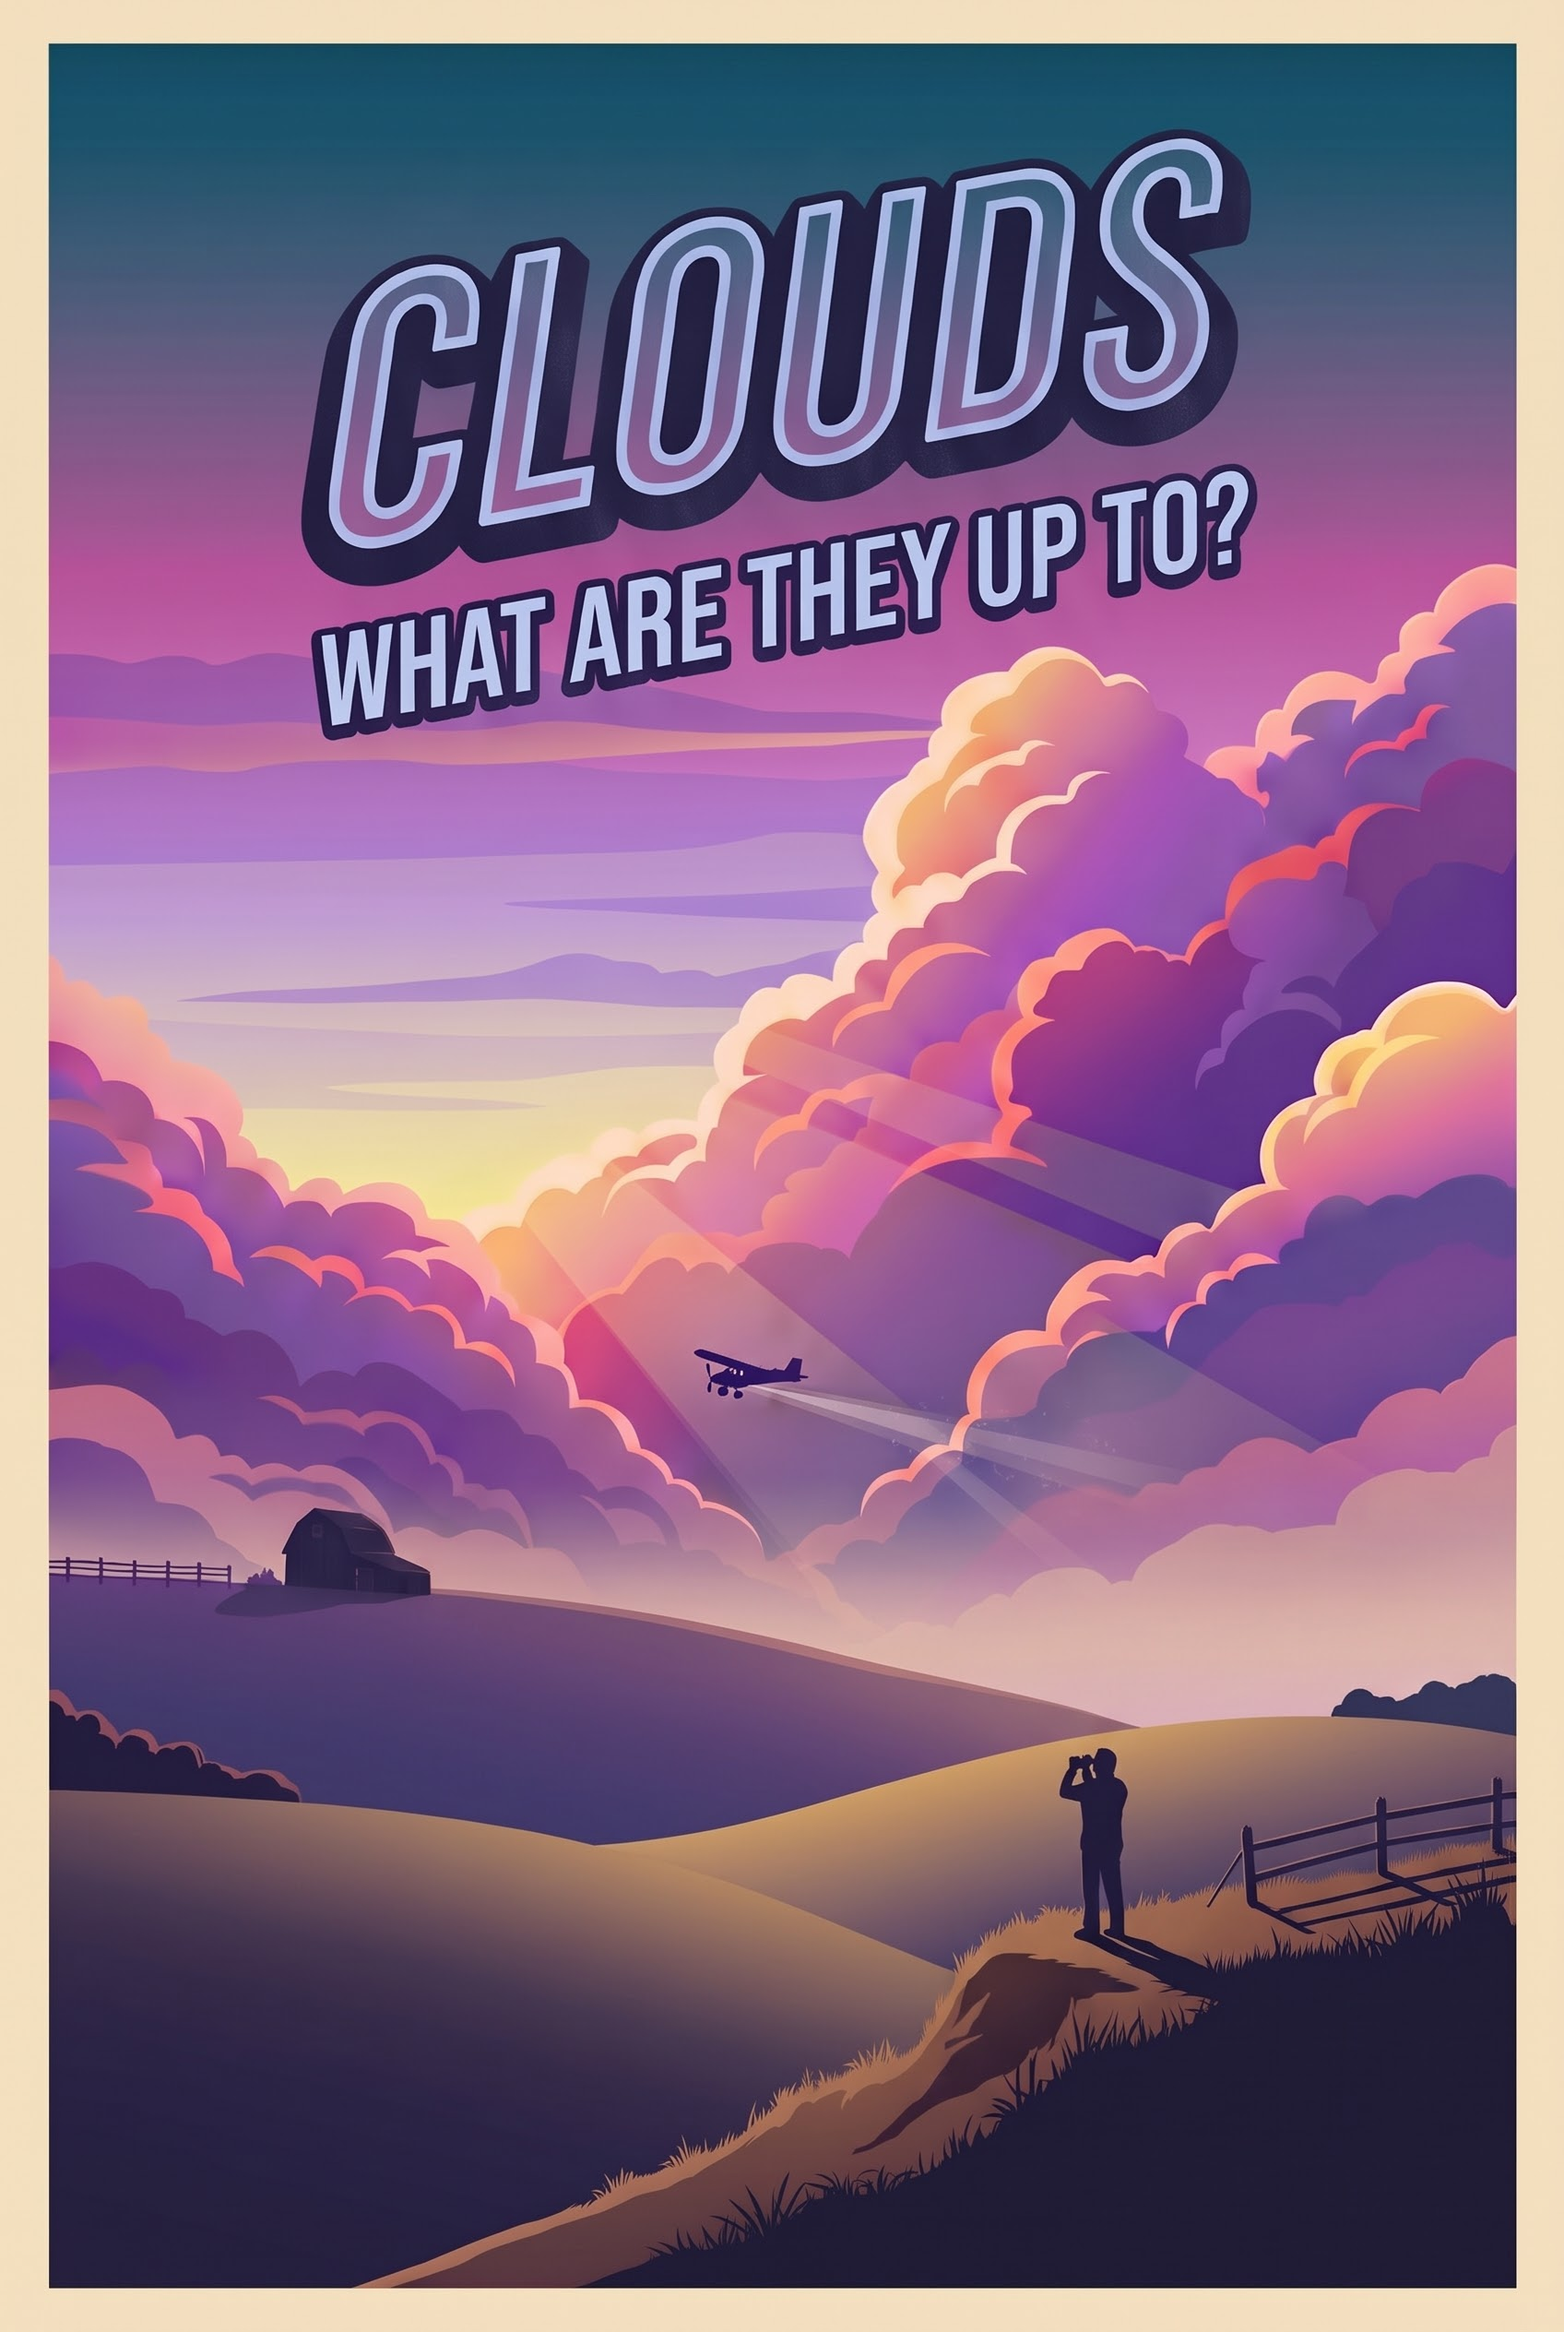
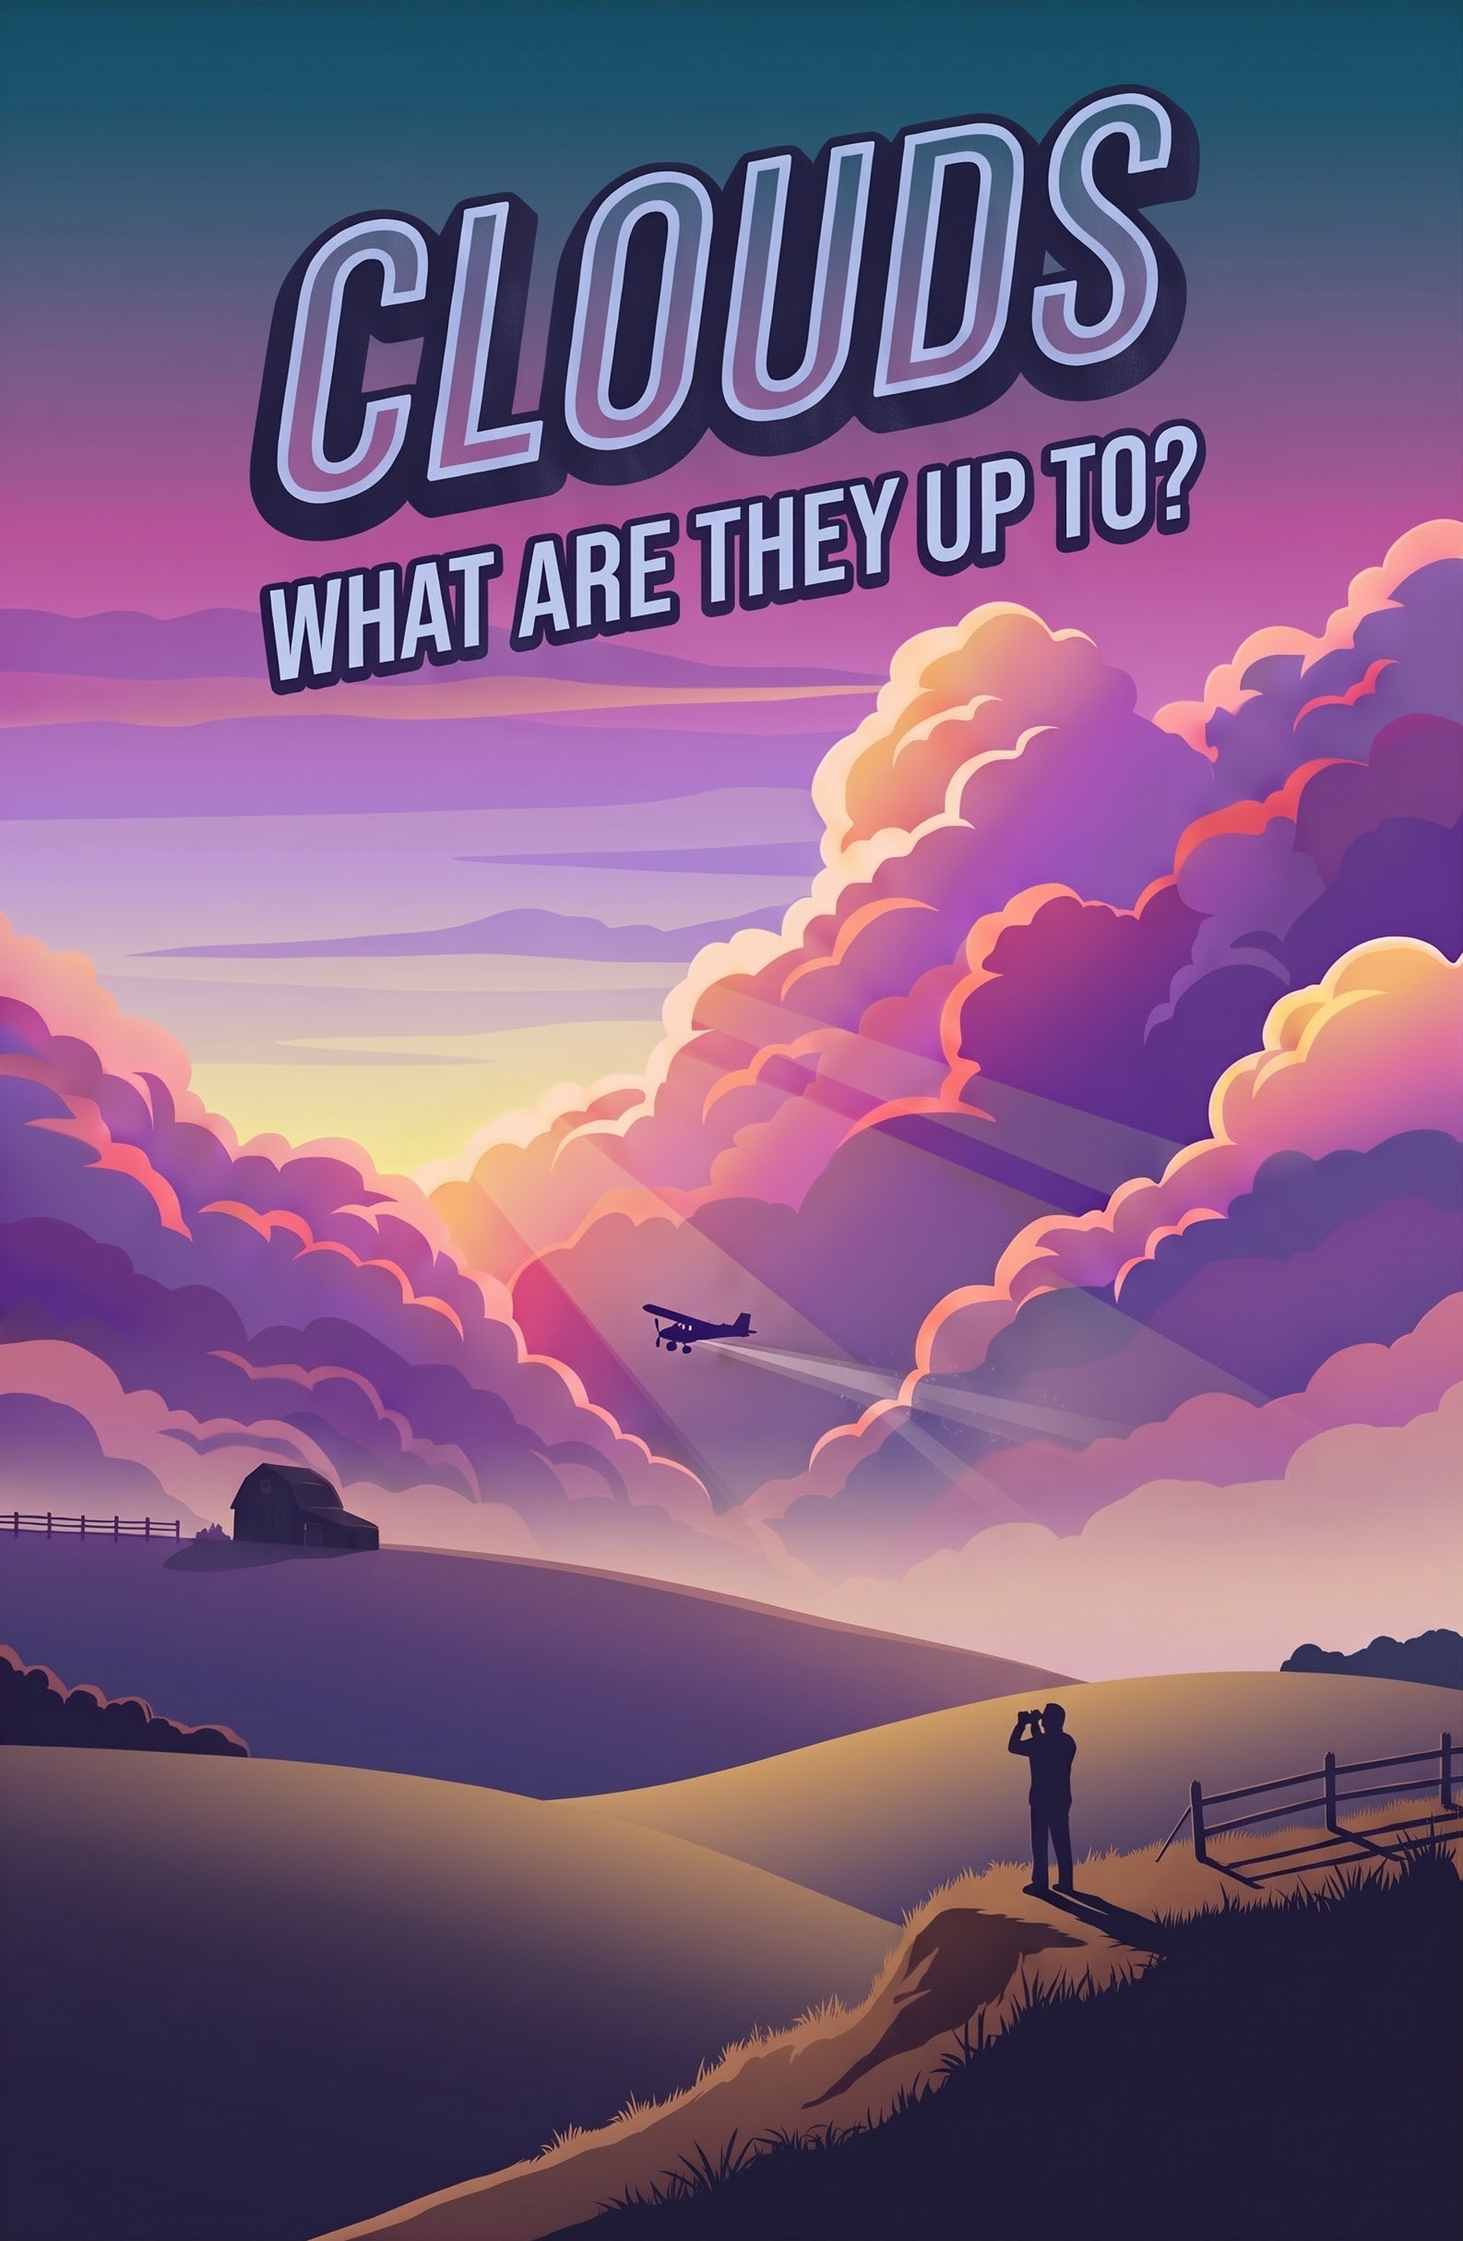
Home clouds as one body with a rounded base; trim the poster's cream border
Flat heaps now draw their shade as the outline of the whole heap and only the
lit tones lobe by lobe, so lobes part along soft creases rather than dark rings,
and the low lobes stay in shade. The base is cut along shallow scallops that
curve up into the sides instead of a straight slice.

The poster loses its cream border; the loading image and icons are made again
from it, with the icon crop moved to match.

Claude-Session: https://claude.ai/code/session_01Jv1mxwTZivfySnexWQqMom

diff --git a/src/app/clouds/flat.ts b/src/app/clouds/flat.ts
@@ -84,38 +84,74 @@ export interface HeapOptions {
   seed?: number;
 }
 
-/** A heap of lobes in flat vector: cumulus, a tower, a row of stratocumulus. */
+/**
+ * A heap of lobes in flat vector: cumulus, a tower, a row of stratocumulus.
+ * Drawn as one body, not a pile of separate balls: the shade is the outline
+ * of the whole heap, and only the lit tones are drawn lobe by lobe, so the
+ * lobes part along soft creases in the mid tone and the deep shadow stays on
+ * the far side and the base.
+ */
 export function celHeap(puffs: Puff[], t: Tones, o: HeapOptions = {}): SVGElement {
-  const light = o.light ?? UPPER_RIGHT;
+  const [lx, ly] = o.light ?? UPPER_RIGHT;
   const id = `cel${++count}`;
   const ls = (o.bumps === false ? puffs.map((main) => ({ main, bumps: [] })) : lobes(puffs, o.seed ?? count, o.base))
-    // Lowest first, so each lobe's shadow falls on the one below it.
+    // Lowest first, so each lobe's crease falls on the one below it.
     .sort((a, b) => b.main.y + b.main.r * b.main.flat - (a.main.y + a.main.r * a.main.flat));
-  const g = svg('g', {}, ...ls.map((L) => lobe(L, light, t)));
-  if (o.base === undefined) return g;
-  let x0 = Infinity, x1 = -Infinity, top = Infinity;
-  for (const q of puffs) {
-    x0 = Math.min(x0, q.x - q.r * 1.6);
-    x1 = Math.max(x1, q.x + q.r * 1.6);
-    top = Math.min(top, q.y - q.r * 1.6);
+  const all = ls.flatMap((L) => [L.main, ...L.bumps]);
+  let x0 = Infinity, x1 = -Infinity, top = Infinity, bottom = -Infinity;
+  for (const q of all) {
+    x0 = Math.min(x0, q.x - q.r);
+    x1 = Math.max(x1, q.x + q.r);
+    top = Math.min(top, q.y - q.r * q.flat);
+    bottom = Math.max(bottom, q.y + q.r * q.flat);
   }
-  const base = o.base;
+  const base = o.base ?? bottom;
   const h = base - top;
-  // The base in shadow: a wavy hard edge a little way up.
-  const y0 = base - (o.shadow ?? h * 0.2);
-  const pts: string[] = [];
-  for (let i = 0; i <= 24; i++) {
-    const x = x0 + ((x1 - x0) * i) / 24;
-    pts.push(`${x.toFixed(1)},${(y0 + Math.sin(i * 1.7 + x0) * h * 0.035).toFixed(1)}`);
+  // The outline: every lobe, cut along the base. The cut is not a ruler line
+  // but a row of shallow scallops, the undersides of the lowest lobes, and
+  // its ends curve up into the sides, so the heap does not look sliced off.
+  const round = Math.min(h * 0.25, (x1 - x0) * 0.15);
+  const n = Math.max(3, Math.round((x1 - x0) / (h * 0.45)));
+  const sw = (x1 - x0) / n;
+  const dip = Math.min(h * 0.05, sw * 0.18);
+  const f = (v: number) => v.toFixed(1);
+  let d = `M${f(x0 - 1)},${f(top - 1)} H${f(x1 + 1)} V${f(base - round - dip)} Q${f(x1 + 1)},${f(base - dip)} ${f(x1 + 1 - round)},${f(base - dip)}`;
+  for (let i = n - 1; i >= 0; i--) {
+    const xa = Math.max(x0 + round, x0 + sw * i);
+    if (xa >= x1 - round) continue;
+    d += ` Q${f((xa + Math.min(x1 - round, xa + sw)) / 2)},${f(base + dip)} ${f(xa)},${f(base - dip * (i === 0 ? 1 : 0.2))}`;
   }
-  const union = ls.flatMap((L) => [L.main, ...L.bumps]).map((q) => disc(q, 0, 0, 1, '#000'));
-  return svg('g', { 'clip-path': `url(#${id}b)` },
-    svg('clipPath', { id: `${id}b` }, svg('rect', { x: x0, y: top, width: x1 - x0, height: base - top })),
-    svg('clipPath', { id: `${id}u` }, ...union),
-    g,
-    svg('g', { 'clip-path': `url(#${id}u)` },
-      svg('polygon', { points: `${pts.join(' ')} ${x1},${base + 1} ${x0},${base + 1}`, fill: t.cloudShade, opacity: 0.55 })),
-  );
+  d += ` Q${f(x0 - 1)},${f(base - dip)} ${f(x0 - 1)},${f(base - round - dip)} Z`;
+  const outline = svg('clipPath', o.base === undefined ? { id: `${id}o` } : { id: `${id}o`, 'clip-path': `url(#${id}b)` },
+    ...all.map((q) => disc(q, 0, 0, 1, '#000')));
+  const box = svg('clipPath', { id: `${id}b` }, svg('path', { d }));
+  const lit = svg('g', {}, ...ls.map((L) => {
+    const qs = [L.main, ...L.bumps];
+    return svg('g', {},
+      ...qs.map((q) => disc(q, lx * q.r * 0.2, ly * q.r * 0.2, 1, t.cloudMid)),
+      // The low lobes, in the heap's own shadow, catch no direct light.
+      ...qs.filter((q) => q.y < base - h * 0.38).map((q) => disc(q, lx * q.r * 0.48, ly * q.r * 0.48, 0.78, t.cloudLight)));
+  }));
+  const parts: SVGElement[] = [svg('rect', { x: x0 - 1, y: top - 1, width: x1 - x0 + 2, height: base - top + 2, fill: t.cloudShade }), lit];
+  if (o.base !== undefined) {
+    // The base in shadow: a gently rolling edge a little way up, with a band
+    // of mid tone above it where the light fades into it.
+    const y0 = base - (o.shadow ?? h * 0.2) * 0.7;
+    const edge = (dy: number, amp: number) => {
+      const pts: string[] = [];
+      for (let i = 0; i <= 24; i++) {
+        const x = x0 + ((x1 - x0) * i) / 24;
+        pts.push(`${x.toFixed(1)},${(y0 + dy + Math.sin(i * 0.9 + x0 * 0.1) * amp).toFixed(1)}`);
+      }
+      return pts.join(' ');
+    };
+    const band = h * 0.05;
+    parts.push(
+      svg('polygon', { points: `${edge(-band, h * 0.02)} ${x1},${base + 1} ${x0},${base + 1}`, fill: t.cloudMid }),
+      svg('polygon', { points: `${edge(0, h * 0.025)} ${x1},${base + 1} ${x0},${base + 1}`, fill: t.cloudShade }),
+    );
+  }
+  return svg('g', {}, box, outline, svg('g', { 'clip-path': `url(#${id}o)` }, ...parts));
 }
 
 /**
